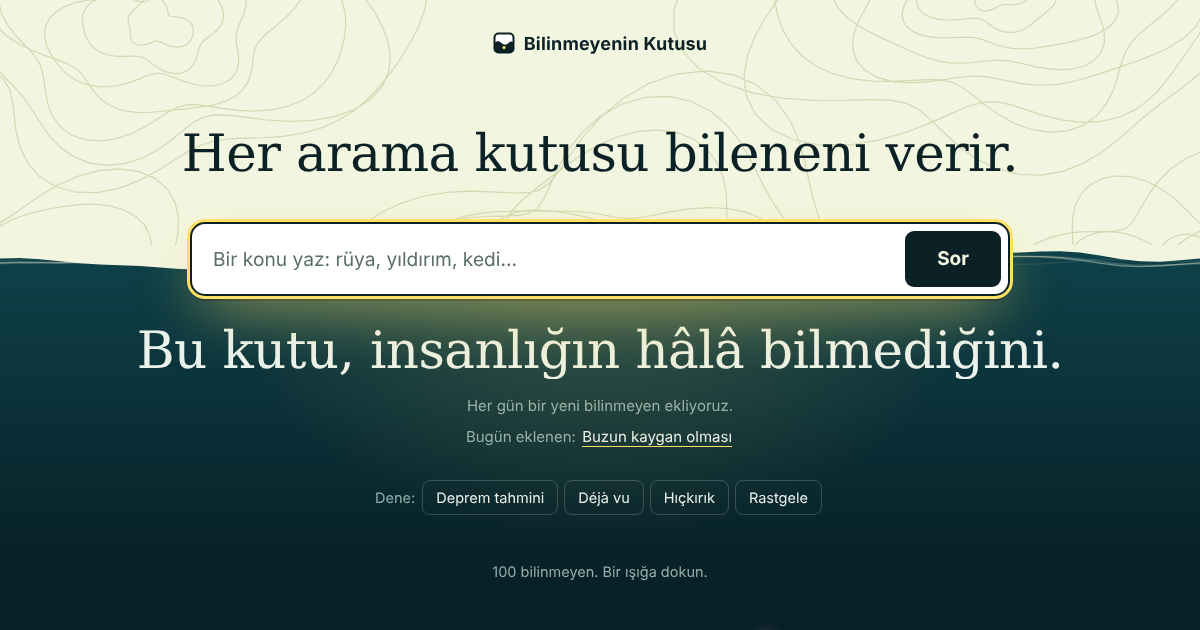
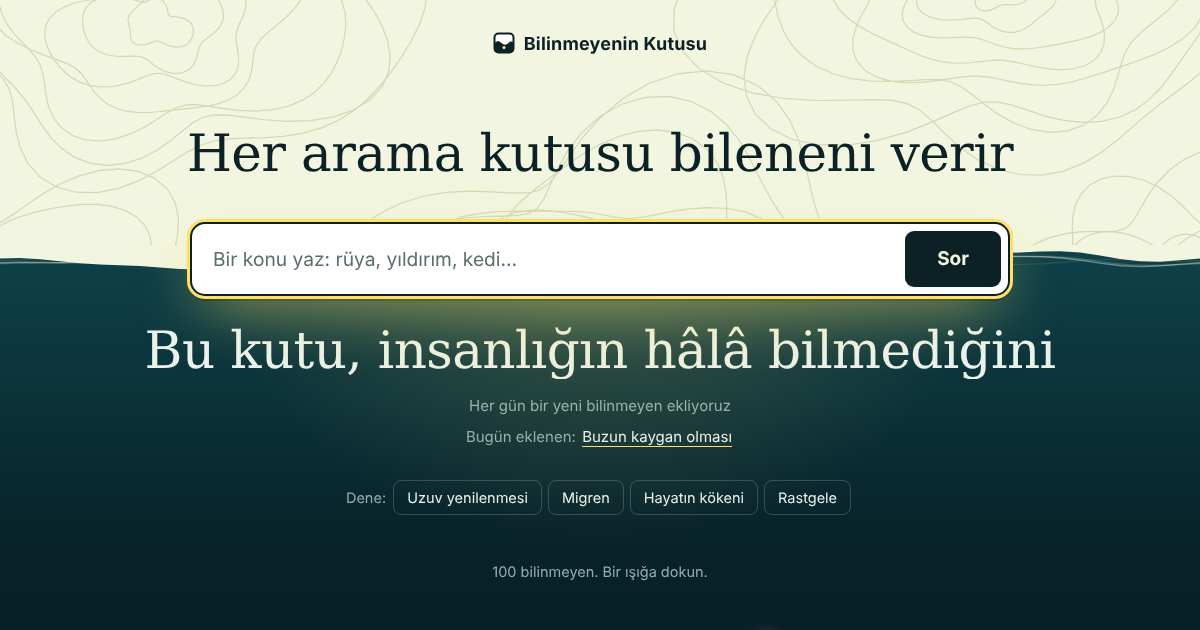
Bilinmeyenin Kutusu: sloganlar noktasız

diff --git a/bilinmeyen/index.html b/bilinmeyen/index.html
@@ -210,7 +210,7 @@ footer a{color:#a9c2bf}
 <svg id="es" viewBox="0 0 1600 500" preserveAspectRatio="xMidYMid slice" aria-hidden="true"></svg>
 <div id="cozulen"></div>
 <h1><a href="#" id="ev"><svg viewBox="0 0 22 22" aria-hidden="true"><rect x="1.5" y="1.5" width="19" height="19" rx="4" fill="#fff" stroke="#0b2126" stroke-width="2"/><path d="M1.5 11c2.4-2.2 4.6-2.2 7 0s4.6 2.2 7 0 3.4-1.6 5-.6V17a3.5 3.5 0 0 1-3.5 3.5H5A3.5 3.5 0 0 1 1.5 17z" fill="#0b2126"/><circle cx="11" cy="15.6" r="1.6" fill="#ffe066"/></svg>Bilinmeyenin Kutusu</a></h1>
-<p class="soz" id="soz1">Her arama kutusu bileneni verir.</p>
+<p class="soz" id="soz1">Her arama kutusu bileneni verir</p>
 </header>
 <div id="kiyi" aria-hidden="true"><div>
 <svg id="kenar" viewBox="0 0 2400 74"><path/></svg>
@@ -223,8 +223,8 @@ footer a{color:#a9c2bf}
 <input id="q" type="search" aria-label="Bir konu yaz" placeholder="Bir konu yaz: rüya, yıldırım, kedi…" maxlength="60">
 <button id="sor" type="submit">Sor</button>
 </form>
-<p class="soz" id="soz2">Bu kutu, insanlığın hâlâ bilmediğini.</p>
-<p class="gunluk" id="gunluk">Her gün bir yeni bilinmeyen ekliyoruz.</p>
+<p class="soz" id="soz2">Bu kutu, insanlığın hâlâ bilmediğini</p>
+<p class="gunluk" id="gunluk">Her gün bir yeni bilinmeyen ekliyoruz</p>
 <div class="oneri" id="oneri"></div>
 <section id="sonuc" aria-live="polite"></section>
 <section id="takim" aria-label="Bütün bilinmeyenler">
